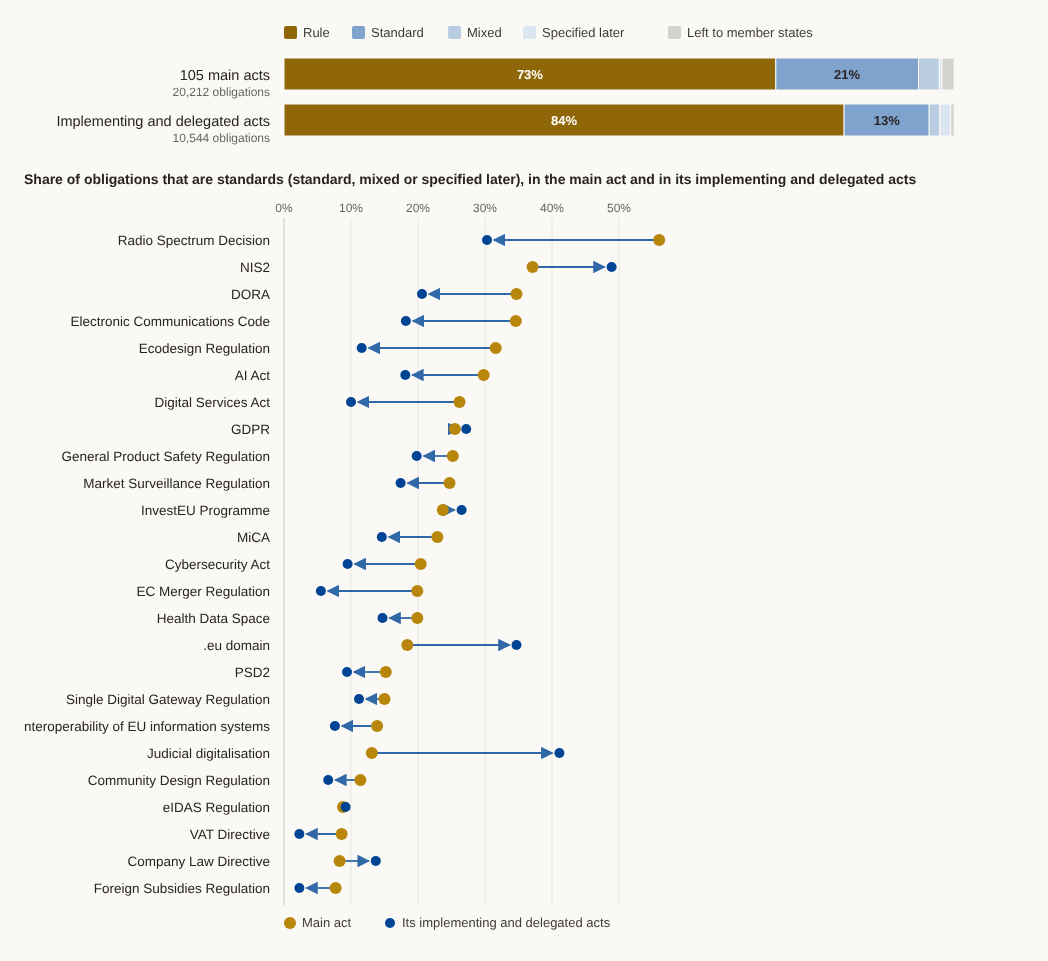
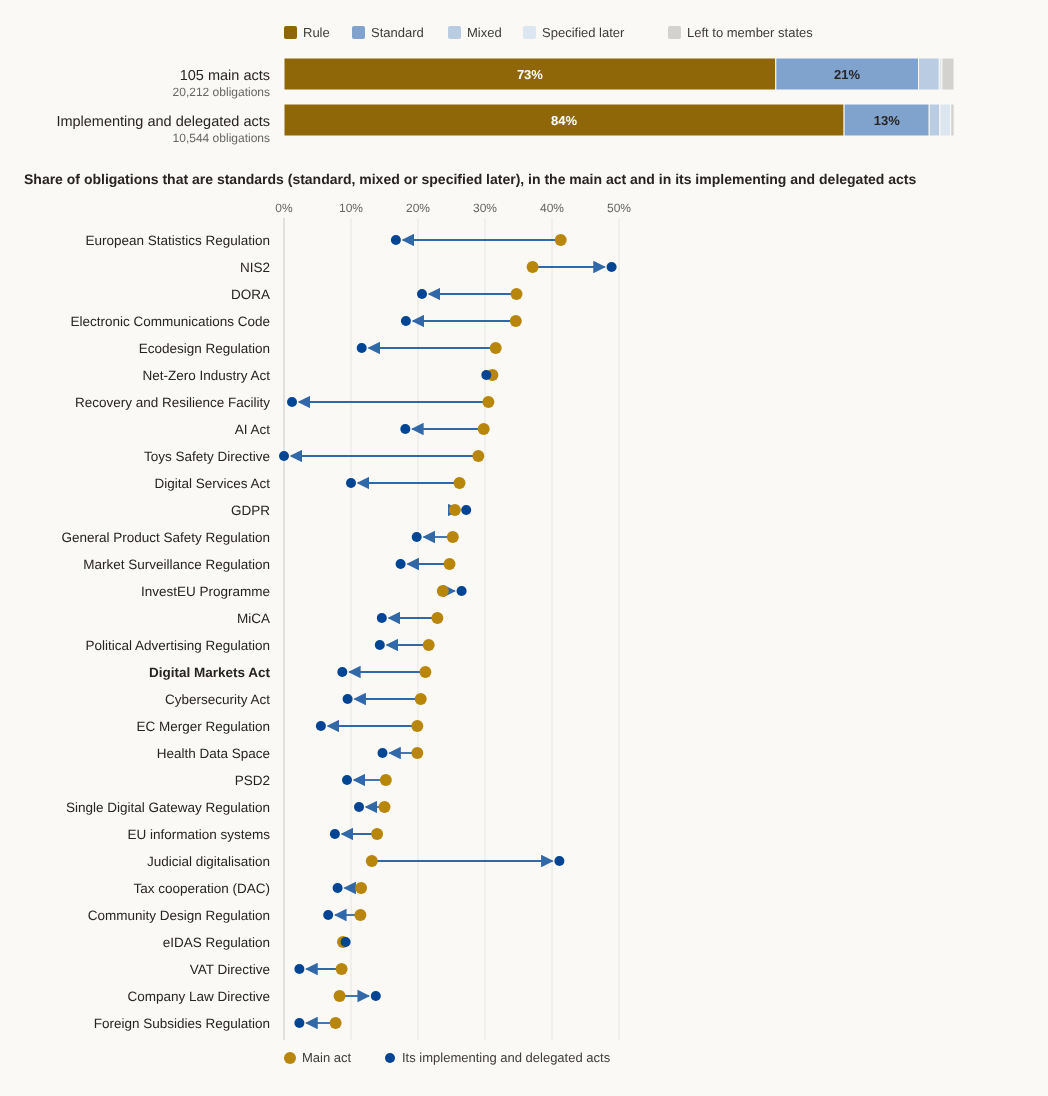
Rules vs standards chart: cut-off 60 secondary obligations, main act at least 50, DMA highlighted
Claude-Session: https://claude.ai/code/session_015jJNgYEity1n7oPe2my2VN

Changed region(s): [[0.0305, 0.0312, 0.916, 0.9677], [0.3664, 0.9365, 0.5802, 0.9677], [0.458, 0.6556, 0.4885, 0.6868]]

diff --git a/research/ceps_metrics/site/build_rules_standards.py b/research/ceps_metrics/site/build_rules_standards.py
@@ -1,6 +1,6 @@
 """Rules vs standards (Kaplow 1992) chart, draft for review.
 Top: obligations in the 105 main acts and in their implementing/delegated acts, split by kind (100% bars).
-Bottom: for each act with at least 100 obligations in its implementing/delegated acts, the standard-like share
+Bottom: for each act with at least 60 obligations (and a main act with at least 50) in its implementing/delegated acts, the standard-like share
 (standard + mixed + specified later) in the main act (gold) and in its secondary acts (blue), with an arrow.
 Reads data/rules_standards/summary.json. Writes site/rules_standards.svg. Run from research/ceps_metrics."""
 import json
@@ -14,8 +14,8 @@ SHORT = {"Markets in Crypto-Assets (MiCA)": "MiCA", "Digital Operational Resilie
          "Payment Services Directive 2 (PSD2)": "PSD2", "Common VAT system Directive": "VAT Directive", "Digitalisation of judicial cooperation Regulation": "Judicial digitalisation",
          "Interoperability of EU information systems (borders and visa)": "EU information systems", "Ecodesign for Sustainable Products Regulation": "Ecodesign Regulation",
          "European Electronic Communications Code": "Electronic Communications Code", ".eu Top-Level Domain Regulation": ".eu domain", "Artificial Intelligence Act": "AI Act",
-         "Digital Services Act": "Digital Services Act", "NIS 2 Directive": "NIS2", "European Health Data Space": "Health Data Space"}
-nm = lambda n: SHORT.get(n, n.split(" (")[0])
+         "Digital Services Act": "Digital Services Act", "NIS 2 Directive": "NIS2", "European Health Data Space": "Health Data Space", "Administrative cooperation in taxation (DAC)": "Tax cooperation (DAC)", "Recovery and Resilience Facility": "Recovery and Resilience Facility", "Digital Markets Act": "Digital Markets Act"}
+nm = lambda n: SHORT.get(n, n.split(" (")[0]) if not n.startswith("Interoperability of EU") else "EU information systems"
 W, L, R = 1000, 260, 930
 X = lambda v: L + v * (R - L)
 g = []
@@ -37,7 +37,7 @@ for i, (key, lab) in enumerate((("main_all", "105 main acts"), ("secondary_all",
 # bottom: arrows per act
 y0 = 160
 g.append(t(0, y0, "Share of obligations that are standards (standard, mixed or specified later), in the main act and in its implementing and delegated acts", 14, INK, "start", 600))
-acts = sorted([o for o in s["instruments"] if (o["secondary"] or {}).get("n", 0) >= 100], key=lambda o: -o["main"]["standard_like"])
+acts = sorted([o for o in s["instruments"] if (o["secondary"] or {}).get("n", 0) >= 60 and o["main"]["n"] >= 50], key=lambda o: -o["main"]["standard_like"])
 top = y0 + 46; RH = 27
 for v in (0, .1, .2, .3, .4, .5):
     g.append(f'<line x1="{X(v):.1f}" x2="{X(v):.1f}" y1="{top - 12}" y2="{top + len(acts) * RH}" stroke="{LINE if v else BASE}"></line>')
@@ -46,7 +46,8 @@ g.append(f'<defs><marker id="ah" viewBox="0 0 10 10" refX="9" refY="5" markerWid
 for i, o in enumerate(acts):
     y = top + i * RH + 10
     a, b = o["main"]["standard_like"], o["secondary"]["standard_like"]
-    g.append(t(L - 14, y + 5, nm(o["name"]), 13.5, INK, "end"))
+    dma = o["name"] == "Digital Markets Act"
+    g.append(t(L - 14, y + 5, nm(o["name"]), 13.5, INK, "end", 700 if dma else None))
     if abs(b - a) > 0.012:
         g.append(f'<line x1="{X(a):.1f}" x2="{X(b) + (-7 if b > a else 7):.1f}" y1="{y}" y2="{y}" stroke="{BLUE}" stroke-width="1.8" marker-end="url(#ah)" opacity="0.8"></line>')
     g.append(f'<circle cx="{X(a):.1f}" cy="{y}" r="6" fill="{GOLD}"><title>{o["name"]}: main act {a:.0%} ({o["main"]["n"]} obligations)</title></circle>')
